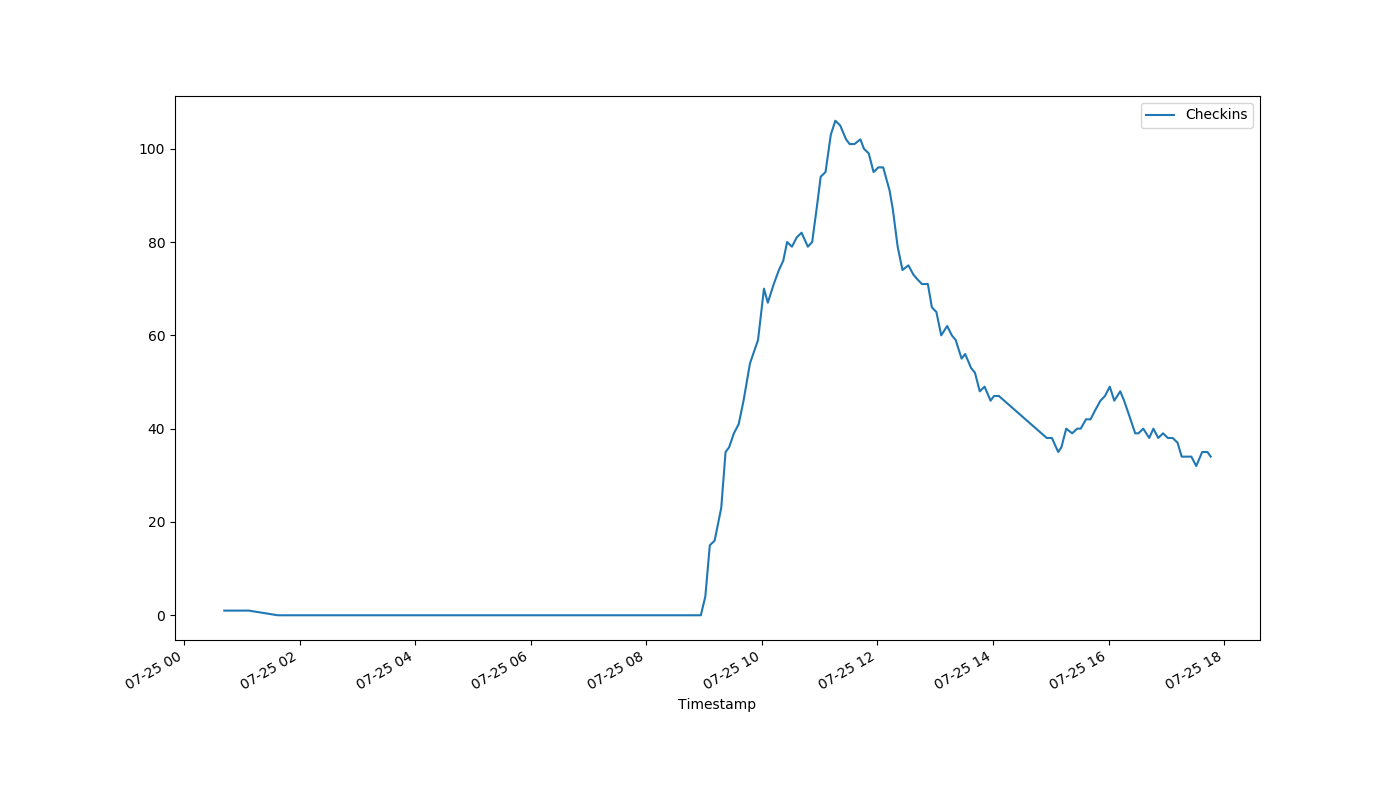
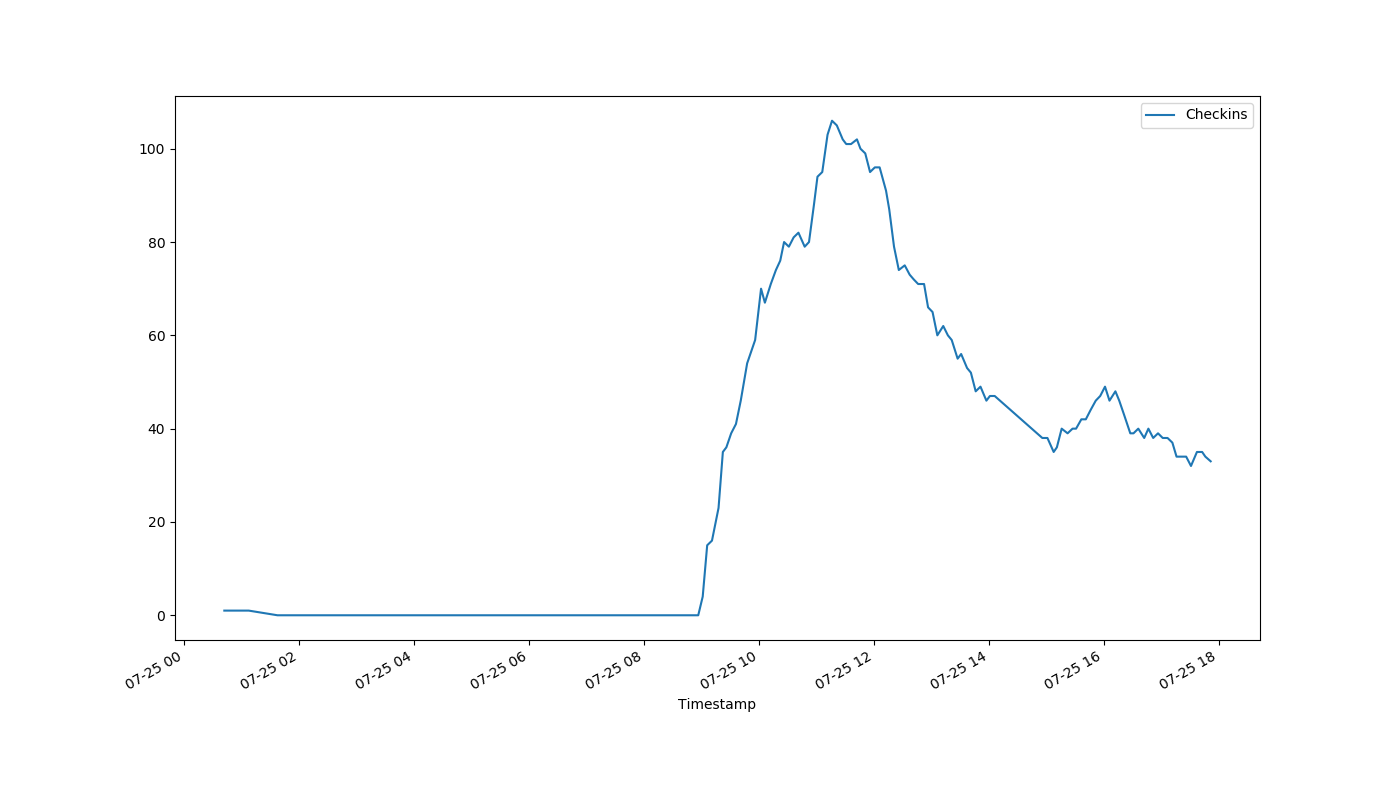
auto-Jul-25-17:52:32

diff --git a/index.html b/index.html
@@ -1,1 +1,1 @@
-<!DOCTYPE html><html><head><meta http-equiv="refresh" content="30"><link rel='stylesheet' href='holmcurrent.css'></head><body><p id='count'>34</p><div id='graph-wrap'><img id='graph' src='holmgraph-Jul-25.png'></div><p id='updated'>Last updated 17:46:12 / 17:46:05</p></body></html>
+<!DOCTYPE html><html><head><meta http-equiv="refresh" content="30"><link rel='stylesheet' href='holmcurrent.css'></head><body><p id='count'>33</p><div id='graph-wrap'><img id='graph' src='holmgraph-Jul-25.png'></div><p id='updated'>Last updated 17:52:13 / 17:51:39</p></body></html>
